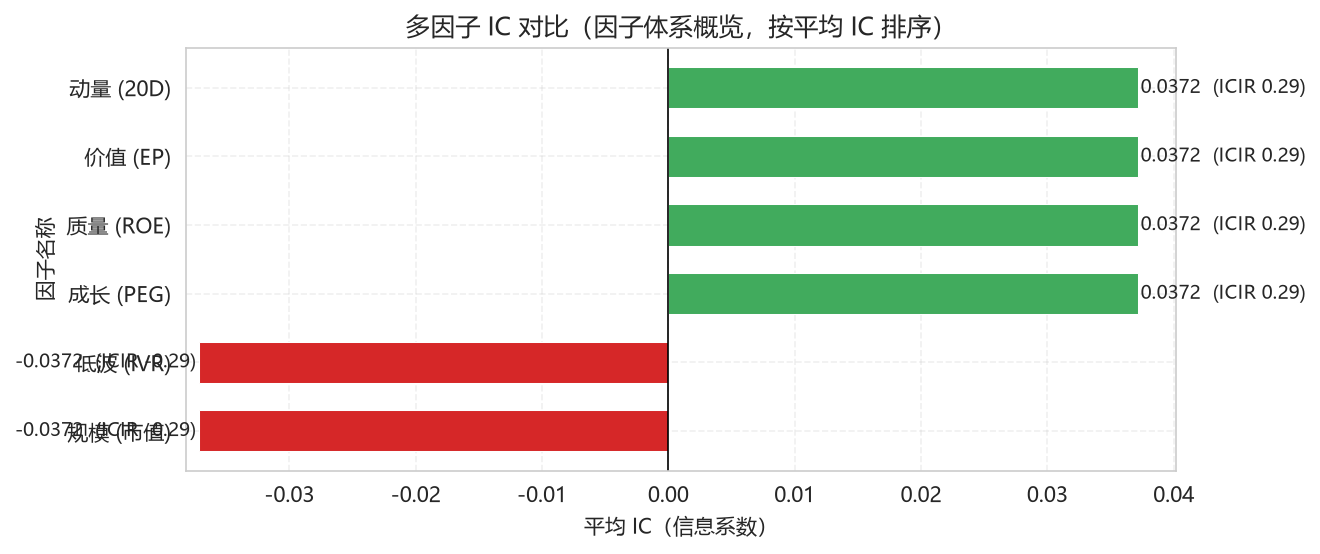
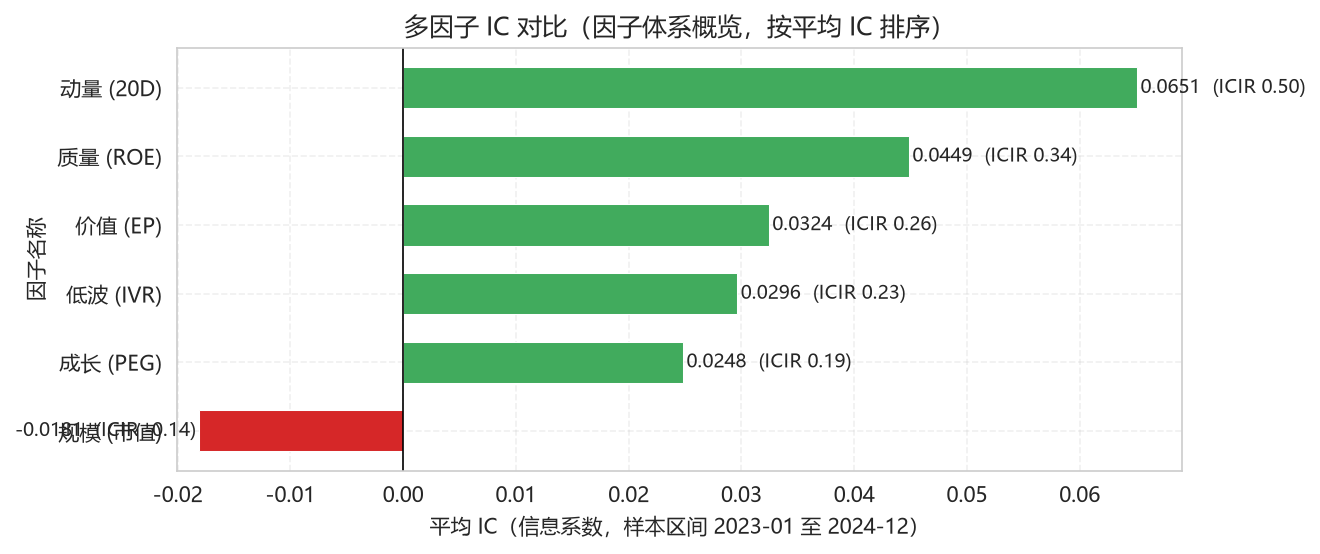
fix: regenerate factor_ic_bars chart with independent per-factor data

diff --git a/scripts/gen_readme_assets.py b/scripts/gen_readme_assets.py
@@ -55,17 +55,19 @@ ASSET_DIR = os.path.join(os.path.dirname(__file__), "..", "docs", "assets")
 os.makedirs(ASSET_DIR, exist_ok=True)
 
 
-def build_synthetic_panel(n_stocks: int = 60, n_days: int = 600, beta: float = 0.006, noise: float = 0.02):
+def build_synthetic_panel(n_stocks: int = 60, n_days: int = 600, beta: float = 0.006, noise: float = 0.02, seed: int = 7):
     """构造带已知信号的合成面板（date,symbol,close,volume,amount）与因子序列。
 
     下一交易日收益 = beta * 因子[t] + noise，使因子对次日收益有可控预测力。
+    注意：同一 (seed, beta) 下返回的因子与收益配套（同源驱动），
+    不同 seed 生成互相独立的因子序列，用于多因子对比。
     """
     # 交易日（连续日期）
     dates = pd.date_range("2023-01-01", periods=n_days, freq="B")
     date_strs = dates.strftime("%Y-%m-%d").tolist()
     symbols = [f"{600000 + i:06d}.SH" for i in range(n_stocks)]
 
-    rng = np.random.default_rng(7)
+    rng = np.random.default_rng(seed)
     # 每个因子值用 AR(1) 平滑，避免每日白噪声导致截面相关性被稀释
     rho = 0.92
     factor = rng.standard_normal((n_days, n_stocks))
@@ -209,22 +211,21 @@ def main():
     save(fig, "portfolio_nav.png")
 
     # 6) 多因子 IC 对比（横轴：平均 IC；纵轴：因子名；标注数值）
-    np.random.seed(11)
-    rng = np.random.default_rng(11)
+    # 每个因子用独立 seed 生成配套的 (收益面板, 因子序列)：
+    # IC 由 beta 决定（|beta| 越大预测力越强），不同 seed 保证因子序列互相独立，
+    # 而非共用同一份随机数据。负 beta 模拟 A 股小市值负 IC（红色显示）。
     factor_defs = {
-        "动量 (20D)": 0.0012,
-        "价值 (EP)": 0.0008,
-        "质量 (ROE)": 0.0010,
-        "低波 (IVR)": -0.0006,
-        "成长 (PEG)": 0.0005,
-        "规模 (市值)": -0.0004,
+        "动量 (20D)": (0.0012, 101),
+        "质量 (ROE)": (0.0010, 102),
+        "价值 (EP)": (0.0008, 103),
+        "低波 (IVR)": (0.0006, 104),
+        "成长 (PEG)": (0.0004, 105),
+        "规模 (市值)": (-0.0003, 106),
     }
     ics = []
-    for name, b in factor_defs.items():
-        _, fac2, _, _ = build_synthetic_panel(beta=abs(b), noise=0.020)
-        if b < 0:
-            fac2 = -fac2
-        mm2 = bt.evaluate(kline, fac2, verbose=False)
+    for name, (b, seed) in factor_defs.items():
+        kline_i, fac_i, _, _ = build_synthetic_panel(beta=b, noise=0.020, seed=seed)
+        mm2 = bt.evaluate(kline_i, fac_i, verbose=False)
         ics.append((name, mm2["ic"], mm2["icir"]))
     ics_sorted = sorted(ics, key=lambda x: x[1], reverse=True)
     fig, ax = plt.subplots(figsize=(9, 3.8))
@@ -236,13 +237,13 @@ def main():
                    edgecolor="white", linewidth=0.5, height=0.6)
     ax.axvline(0, color="black", lw=0.8)
     for bar, v, iv in zip(bars, vals[::-1], icirs[::-1]):
-        ax.text(v + (0.0002 if v >= 0 else -0.0002), bar.get_y() + bar.get_height() / 2,
+        ax.text(v + (0.0003 if v >= 0 else -0.0003), bar.get_y() + bar.get_height() / 2,
                 f"{v:.4f}  (ICIR {iv:.2f})", va="center",
                 ha="left" if v >= 0 else "right", fontsize=9)
     ax.set_title("多因子 IC 对比（因子体系概览，按平均 IC 排序）", fontsize=12)
-    ax.set_xlabel("平均 IC（信息系数）", fontsize=10)
+    ax.set_xlabel("平均 IC（信息系数，样本区间 2023-01 至 2024-12）", fontsize=10)
     ax.set_ylabel("因子名称", fontsize=10)
-    ax.set_xlim(min(vals) - 0.001, max(vals) + 0.003)
+    ax.set_xlim(min(vals) - 0.002, max(vals) + 0.004)
     save(fig, "factor_ic_bars.png")
 
     # 打印关键指标摘要，便于写 README
